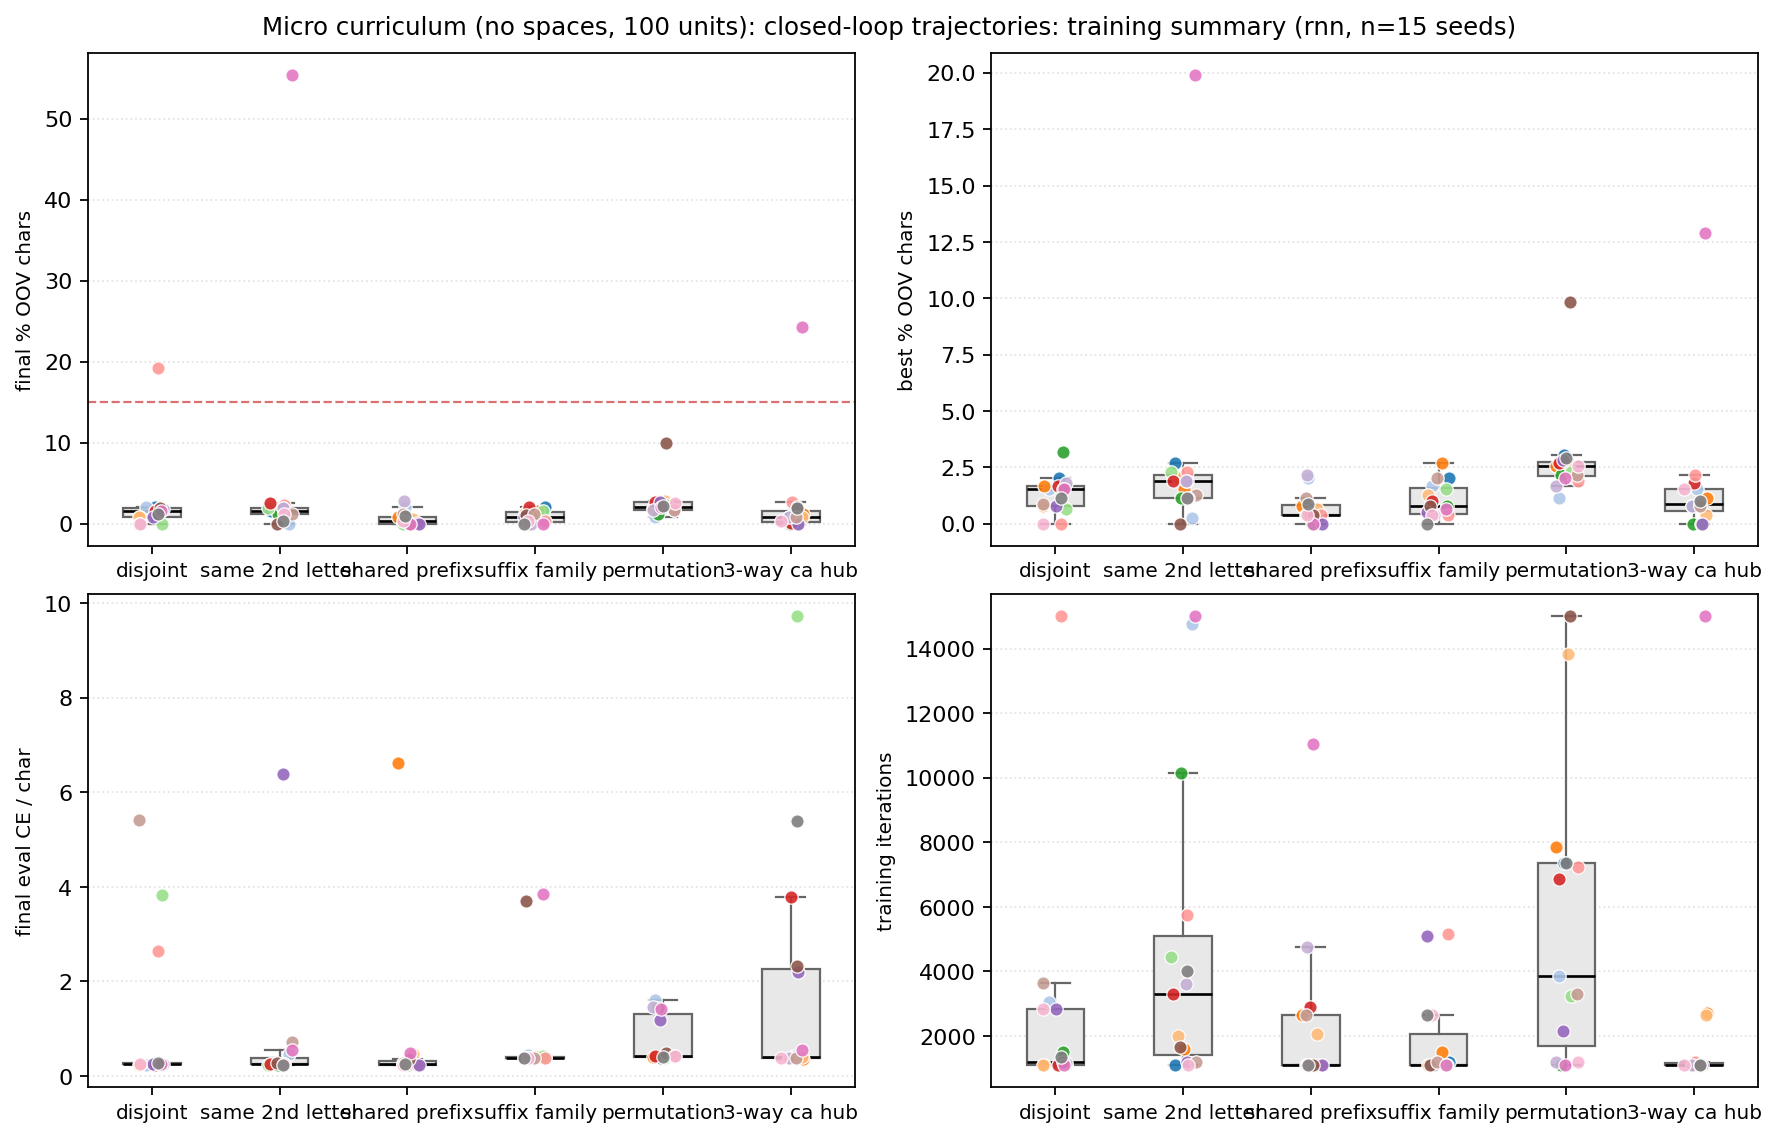
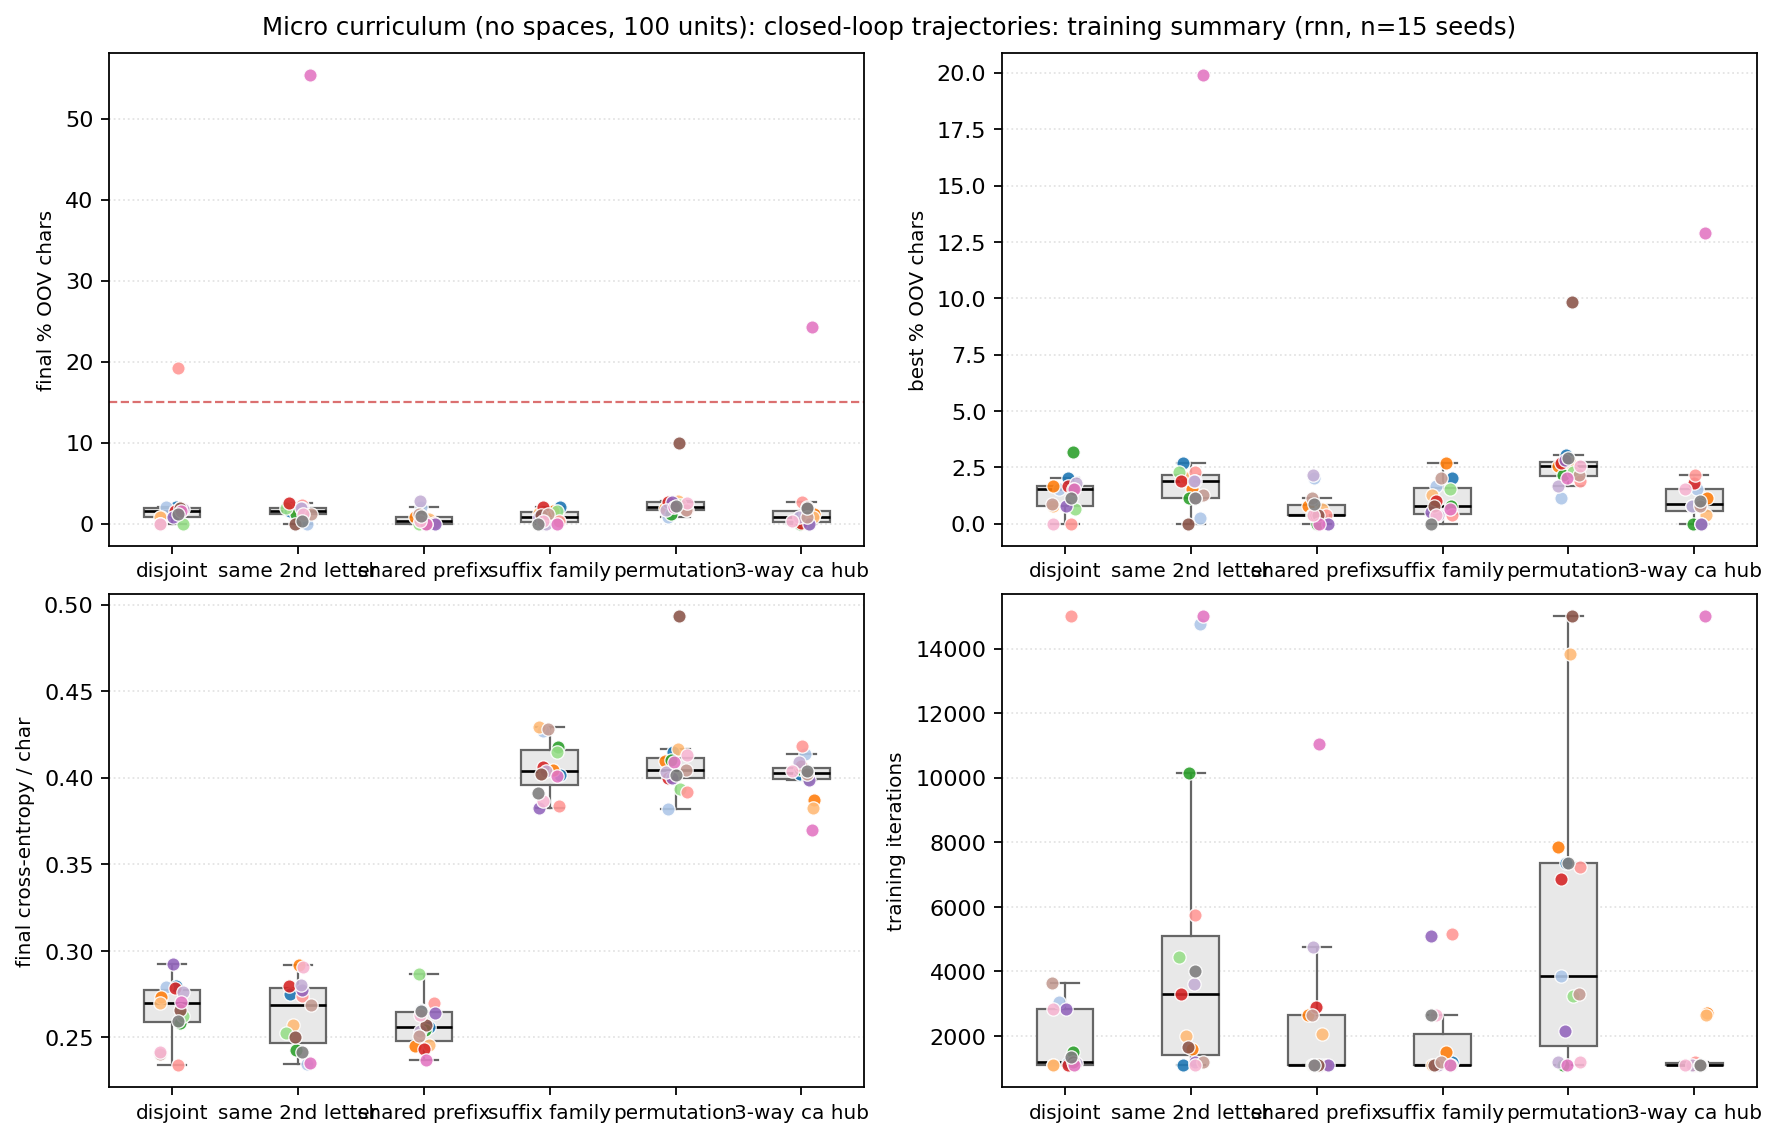
standard loss

diff --git a/rnn/rollout_metrics.py b/rnn/rollout_metrics.py
@@ -66,61 +66,6 @@ def _stochastic_rollout(
     return "".join(index_to_char[i] for i in indices)
 
 
-def teacher_forced_eval_ce(
-    weights: dict[str, np.ndarray],
-    *,
-    hidden_size: int,
-    vocab_size: int,
-    char_to_index: dict[str, int],
-    corpus_text: str,
-    use_relu: bool,
-    rng: np.random.Generator,
-    segment_len: int = 200,
-    burn_in: int = 8,
-    num_segments: int = 4,
-    timestep_noise_std: float = 0.0,
-) -> float:
-    """Teacher-forced cross-entropy (nats/char) on random corpus segments from a zero state.
-
-    The recorded training loss runs on a hidden state carried across the whole
-    corpus; a multistable RNN can predict well along that privileged trajectory
-    while being far worse from any fresh state. Starting from zero state (with a
-    short burn-in, like the rollout metric) measures the model as it is actually
-    used, so this curve moves together with the OOV rollout metric.
-    """
-    w_ih = weights["weights_input_to_hidden"]
-    w_hh = weights["weights_hidden_to_hidden"]
-    w_ho = weights["weights_hidden_to_output"]
-    b_h = weights["bias_hidden"]
-    b_o = weights["bias_output"]
-
-    total = 0.0
-    count = 0
-    span = segment_len + burn_in + 1
-    for _ in range(num_segments):
-        if len(corpus_text) <= span:
-            start = 0
-        else:
-            start = int(rng.integers(0, len(corpus_text) - span))
-        segment = corpus_text[start : start + span]
-        hidden_state = np.zeros((hidden_size, 1))
-        input_one_hot = np.zeros((vocab_size, 1))
-        input_one_hot[char_to_index[segment[0]]] = 1
-        for t in range(1, len(segment)):
-            hidden_state, _ = rnn_hidden_step(
-                hidden_state, input_one_hot, w_ih, w_hh, b_h,
-                use_relu=use_relu, timestep_noise_std=timestep_noise_std, noise_rng=rng,
-            )
-            probs = stable_softmax(w_ho @ hidden_state + b_o)
-            target = char_to_index[segment[t]]
-            if t > burn_in:
-                total += -np.log(max(float(probs[target, 0]), 1e-12))
-                count += 1
-            input_one_hot = np.zeros((vocab_size, 1))
-            input_one_hot[target] = 1
-    return (total / count) if count else float("nan")
-
-
 def valid_vocab_letter_fraction(sampled_text: str, vocab: set[str], *, use_word_segmentation: bool) -> float:
     if not vocab:
         return float("nan")

diff --git a/rnn/min_char_rnn.py b/rnn/min_char_rnn.py
@@ -47,7 +47,6 @@ from rnn.rnn_dyn import (
     stable_softmax,
 )
 from experiment import experiment_regime
-from rnn.rollout_metrics import teacher_forced_eval_ce
 from task import REGIMES
 from vocab_diagrams import corpus_middle_snippet, invalid_word_fraction, oov_char_fraction, segment_corpus_by_words
 
@@ -494,35 +493,6 @@ def rollout_word_validity_metrics(
 stochastic_word_validity_metrics = rollout_word_validity_metrics
 
 
-def eval_ce_per_char(rng: np.random.Generator) -> float:
-    """Teacher-forced CE (nats/char) from zero state on random corpus segments.
-
-    The smoothed training loss rides on a hidden state carried across the whole
-    corpus; a multistable RNN can predict well along that trajectory while being
-    far worse from a fresh state (which is what the rollout metric, and any real
-    use of the checkpoint, sees). This eval CE is the honest learning curve.
-    """
-    return teacher_forced_eval_ce(
-        {
-            "weights_input_to_hidden": weights_input_to_hidden,
-            "weights_hidden_to_hidden": weights_hidden_to_hidden,
-            "weights_hidden_to_output": weights_hidden_to_output,
-            "bias_hidden": bias_hidden,
-            "bias_output": bias_output,
-        },
-        hidden_size=hidden_size,
-        vocab_size=vocab_size,
-        char_to_index=char_to_index,
-        corpus_text=text,
-        use_relu=use_relu,
-        rng=rng,
-        segment_len=METRIC_ROLLOUT_LEN,
-        burn_in=sequence_length,
-        num_segments=METRIC_NUM_ROLLOUTS,
-        timestep_noise_std=timestep_noise_std,
-    )
-
-
 def invalid_word_fraction(sampled_text: str, vocab: set[str]) -> float:
     """Fraction of in-vocab words; first/last tokens per rollout are dropped (edge trim)."""
     from vocab_diagrams import invalid_word_fraction as _invalid_word_fraction
@@ -570,7 +540,6 @@ loss_window = []
 metric_iters = []
 metric_valid_letter_frac = []
 metric_word_error_frac = []
-metric_eval_ce: list[float] = []
 metric_rollout_samples: list[str] = []
 
 weight_snap_iters: list[int] = []
@@ -711,13 +680,11 @@ while iteration < max_iterations:
     word_err, letter_frac, rollout_text = stochastic_word_validity_metrics(
         metric_seed, vocab_words, rng=metric_rng,
     )
-    eval_ce = eval_ce_per_char(metric_rng)
     metric_iters.append(iteration)
     metric_valid_letter_frac.append(letter_frac)
     metric_word_error_frac.append(word_err)
-    metric_eval_ce.append(eval_ce)
     metric_rollout_samples.append(rollout_text[:METRIC_ROLLOUT_LEN])
-    print(f"metric iter {iteration}, word_err: {100.0 * word_err:.2f}%, eval CE: {eval_ce:.3f}/char")
+    print(f"metric iter {iteration}, word_err: {100.0 * word_err:.2f}%")
     progress_path = Path(args.model).parent / f"{Path(args.model).stem}.progress"
     progress_path.write_text(
         f"{iteration}\t{word_err:.6f}\t{smooth_loss:.6f}\n",
@@ -911,7 +878,6 @@ np.savez(
     metric_iterations=np.array(metric_iters, dtype=np.int32),
     metric_valid_vocab_letter_frac=np.array(metric_valid_letter_frac, dtype=np.float64),
     metric_word_error_frac=np.array(metric_word_error_frac, dtype=np.float64),
-    metric_eval_ce=np.array(metric_eval_ce, dtype=np.float64),
     metric_rollout_samples=np.array(metric_rollout_samples, dtype=f"U{METRIC_ROLLOUT_LEN}"),
     best_metric_iter=np.array(best_iter, dtype=np.int32),
     best_metric_word_error_frac=np.array(best_word_err, dtype=np.float64),

diff --git a/rnn/torch_char_rnn.py b/rnn/torch_char_rnn.py
@@ -17,11 +17,7 @@ if str(ROOT) not in sys.path:
     sys.path.insert(0, str(ROOT))
 
 from experiment import experiment_regime
-from rnn.rollout_metrics import (
-    METRIC_RNG_BASE,
-    stochastic_word_validity_metrics,
-    teacher_forced_eval_ce,
-)
+from rnn.rollout_metrics import METRIC_RNG_BASE, stochastic_word_validity_metrics
 from task import REGIMES
 from vocab_diagrams import invalid_word_fraction
 
@@ -149,7 +145,6 @@ def main() -> None:
     metric_iters: list[int] = []
     metric_valid_letter_frac: list[float] = []
     metric_word_error_frac: list[float] = []
-    metric_eval_ce: list[float] = []
 
     best_word_err = float("inf")
     best_iter = -1
@@ -211,20 +206,9 @@ def main() -> None:
                 corpus_text=text,
                 prompt_len=sequence_length,
             )
-            eval_ce = teacher_forced_eval_ce(
-                weights,
-                hidden_size=hidden_size,
-                vocab_size=vocab_size,
-                char_to_index=char_to_index,
-                corpus_text=text,
-                use_relu=False,
-                rng=metric_rng,
-                burn_in=sequence_length,
-            )
             metric_iters.append(iteration)
             metric_valid_letter_frac.append(letter_frac)
             metric_word_error_frac.append(word_err)
-            metric_eval_ce.append(eval_ce)
 
             if iteration >= min_checkpoint_iter and vocab_words and np.isfinite(word_err):
                 if word_err < best_word_err:
@@ -318,7 +302,6 @@ def main() -> None:
         metric_iterations=np.array(metric_iters, dtype=np.int32),
         metric_valid_vocab_letter_frac=np.array(metric_valid_letter_frac, dtype=np.float64),
         metric_word_error_frac=np.array(metric_word_error_frac, dtype=np.float64),
-        metric_eval_ce=np.array(metric_eval_ce, dtype=np.float64),
         best_metric_iter=np.array(best_iter, dtype=np.int32),
         best_metric_word_error_frac=np.array(best_word_err, dtype=np.float64),
         vocab_words=np.array(sorted(vocab_words)),

diff --git a/visualize.py b/visualize.py
@@ -148,8 +148,6 @@ def load_model(path: str = "model.npz"):
         model["metric_valid_vocab_letter_frac"] = data["metric_valid_vocab_letter_frac"]
     if "metric_word_error_frac" in data.files:
         model["metric_word_error_frac"] = data["metric_word_error_frac"]
-    if "metric_eval_ce" in data.files:
-        model["metric_eval_ce"] = data["metric_eval_ce"]
     if "metric_rollout_samples" in data.files:
         model["metric_rollout_samples"] = [str(s) for s in data["metric_rollout_samples"]]
     if "vocab_words" in data.files:
@@ -3329,16 +3327,6 @@ def _learning_curve_series(
     smoothed: bool = False,
     sequence_length: int | None = None,
 ) -> tuple[np.ndarray, np.ndarray, str] | None:
-    # Prefer the eval CE (teacher-forced from zero state, same conditions as the
-    # rollout metric). The smoothed training loss rides on a hidden state carried
-    # across the whole corpus and can sit at the entropy floor while the model is
-    # far worse from any fresh state (multistable RNNs), so it is not an honest
-    # learning curve.
-    if "metric_eval_ce" in model and "metric_iterations" in model:
-        eval_ce = np.asarray(model["metric_eval_ce"], dtype=float)
-        eval_iters = np.asarray(model["metric_iterations"], dtype=int)
-        if eval_ce.size == eval_iters.size and eval_ce.size > 0:
-            return eval_iters, eval_ce, "eval cross-entropy / char"
     if "loss_iterations" not in model:
         return None
     iters = np.asarray(model["loss_iterations"], dtype=int)

diff --git a/viz/compare/learning_curves.py b/viz/compare/learning_curves.py
@@ -65,9 +65,7 @@ def _checkpoint_training_stats(
         return None
     final_we = float(data["metric_word_error_frac"][-1]) * 100.0
     best_we = float(data["best_metric_word_error_frac"]) * 100.0
-    if "metric_eval_ce" in data.files and len(data["metric_eval_ce"]):
-        final_ce = float(data["metric_eval_ce"][-1])
-    elif "loss_smooth" in data.files:
+    if "loss_smooth" in data.files:
         seq = float(data["sequence_length"]) if "sequence_length" in data.files else 1.0
         final_ce = float(data["loss_smooth"][-1]) / max(seq, 1.0)
     else:
@@ -95,7 +93,7 @@ def plot_learning_summary(
     metric_specs = (
         ("final_word_err_pct", "final % OOV chars"),
         ("best_word_err_pct", "best % OOV chars"),
-        ("final_ce", "final eval CE / char"),
+        ("final_ce", "final cross-entropy / char"),
         ("final_iter", "training iterations"),
     )
     groups_by_key: dict[str, list[tuple[list[float], list[int]]]] = {